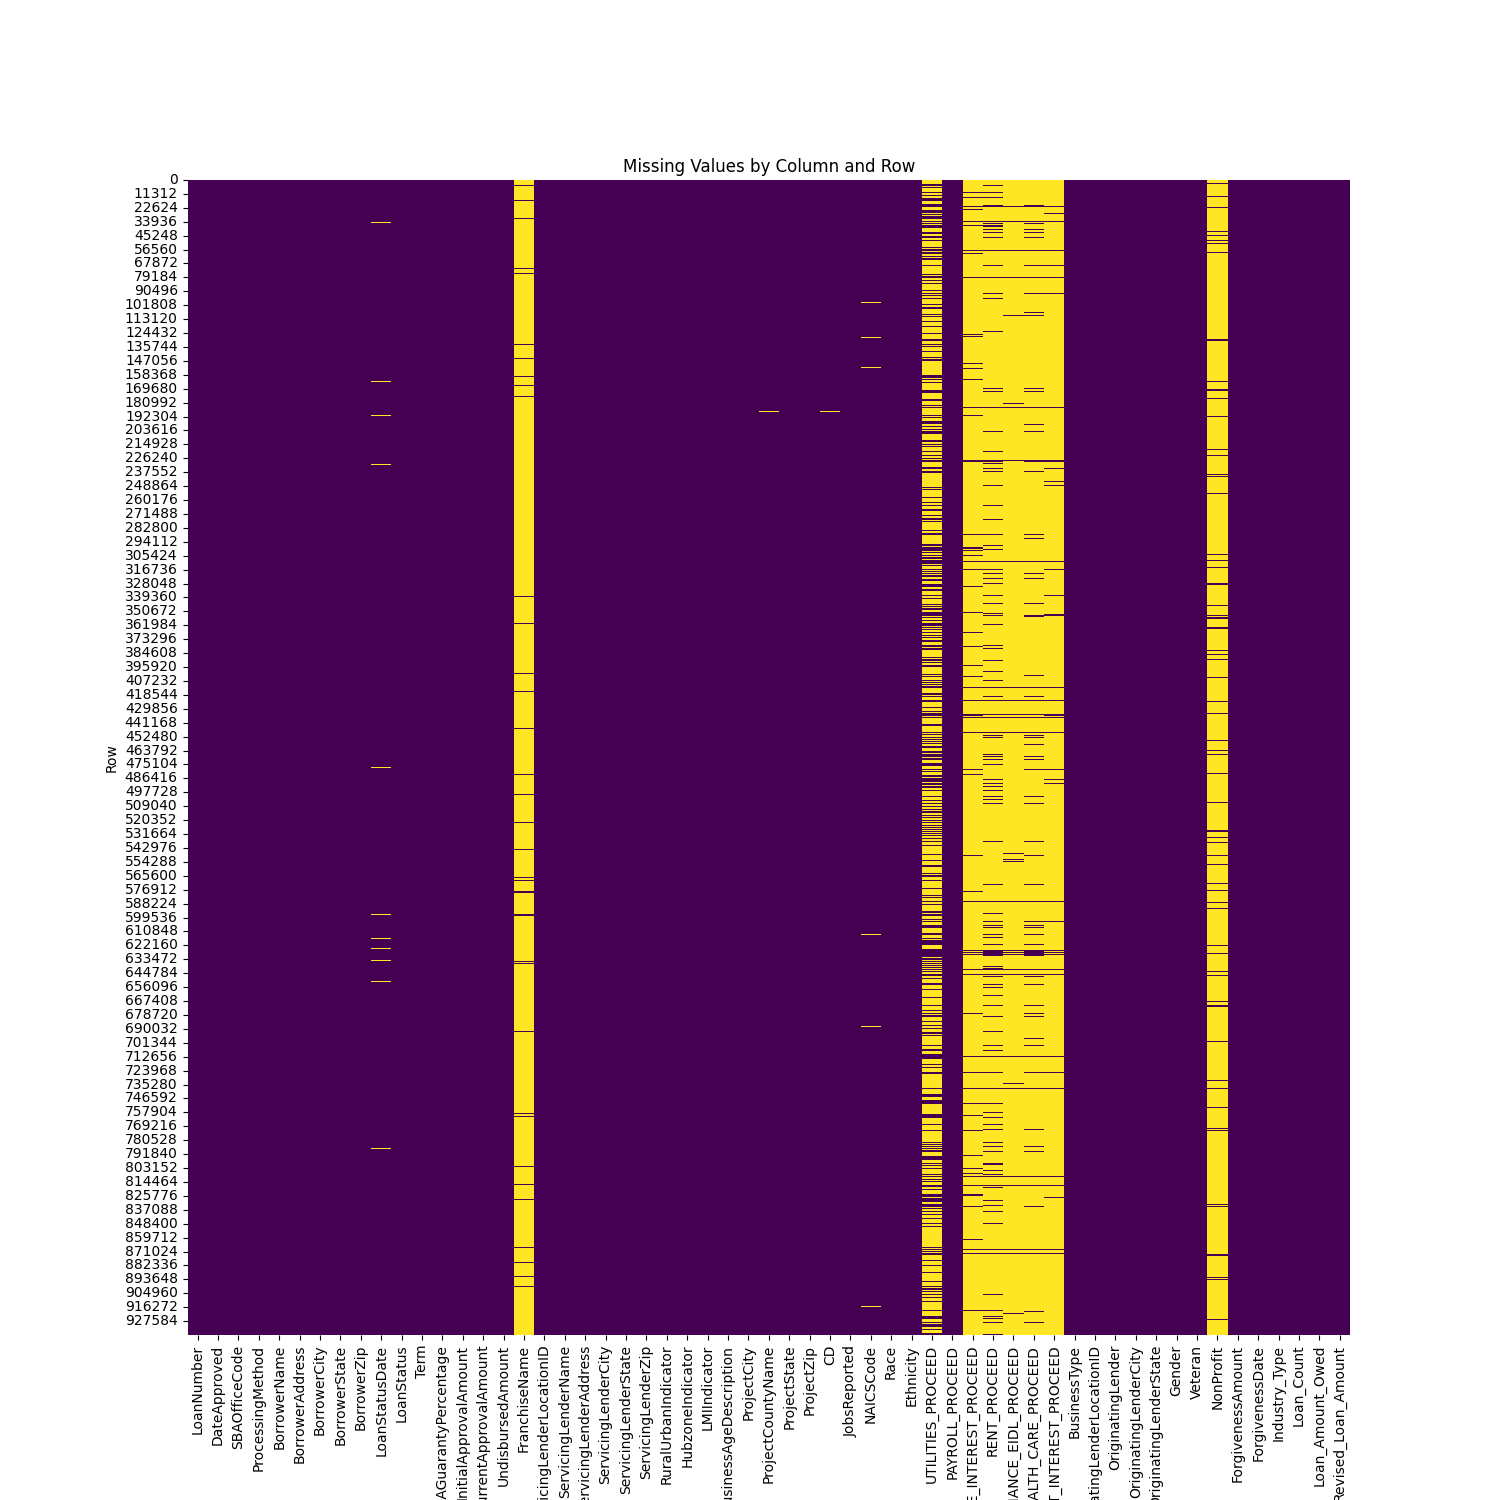
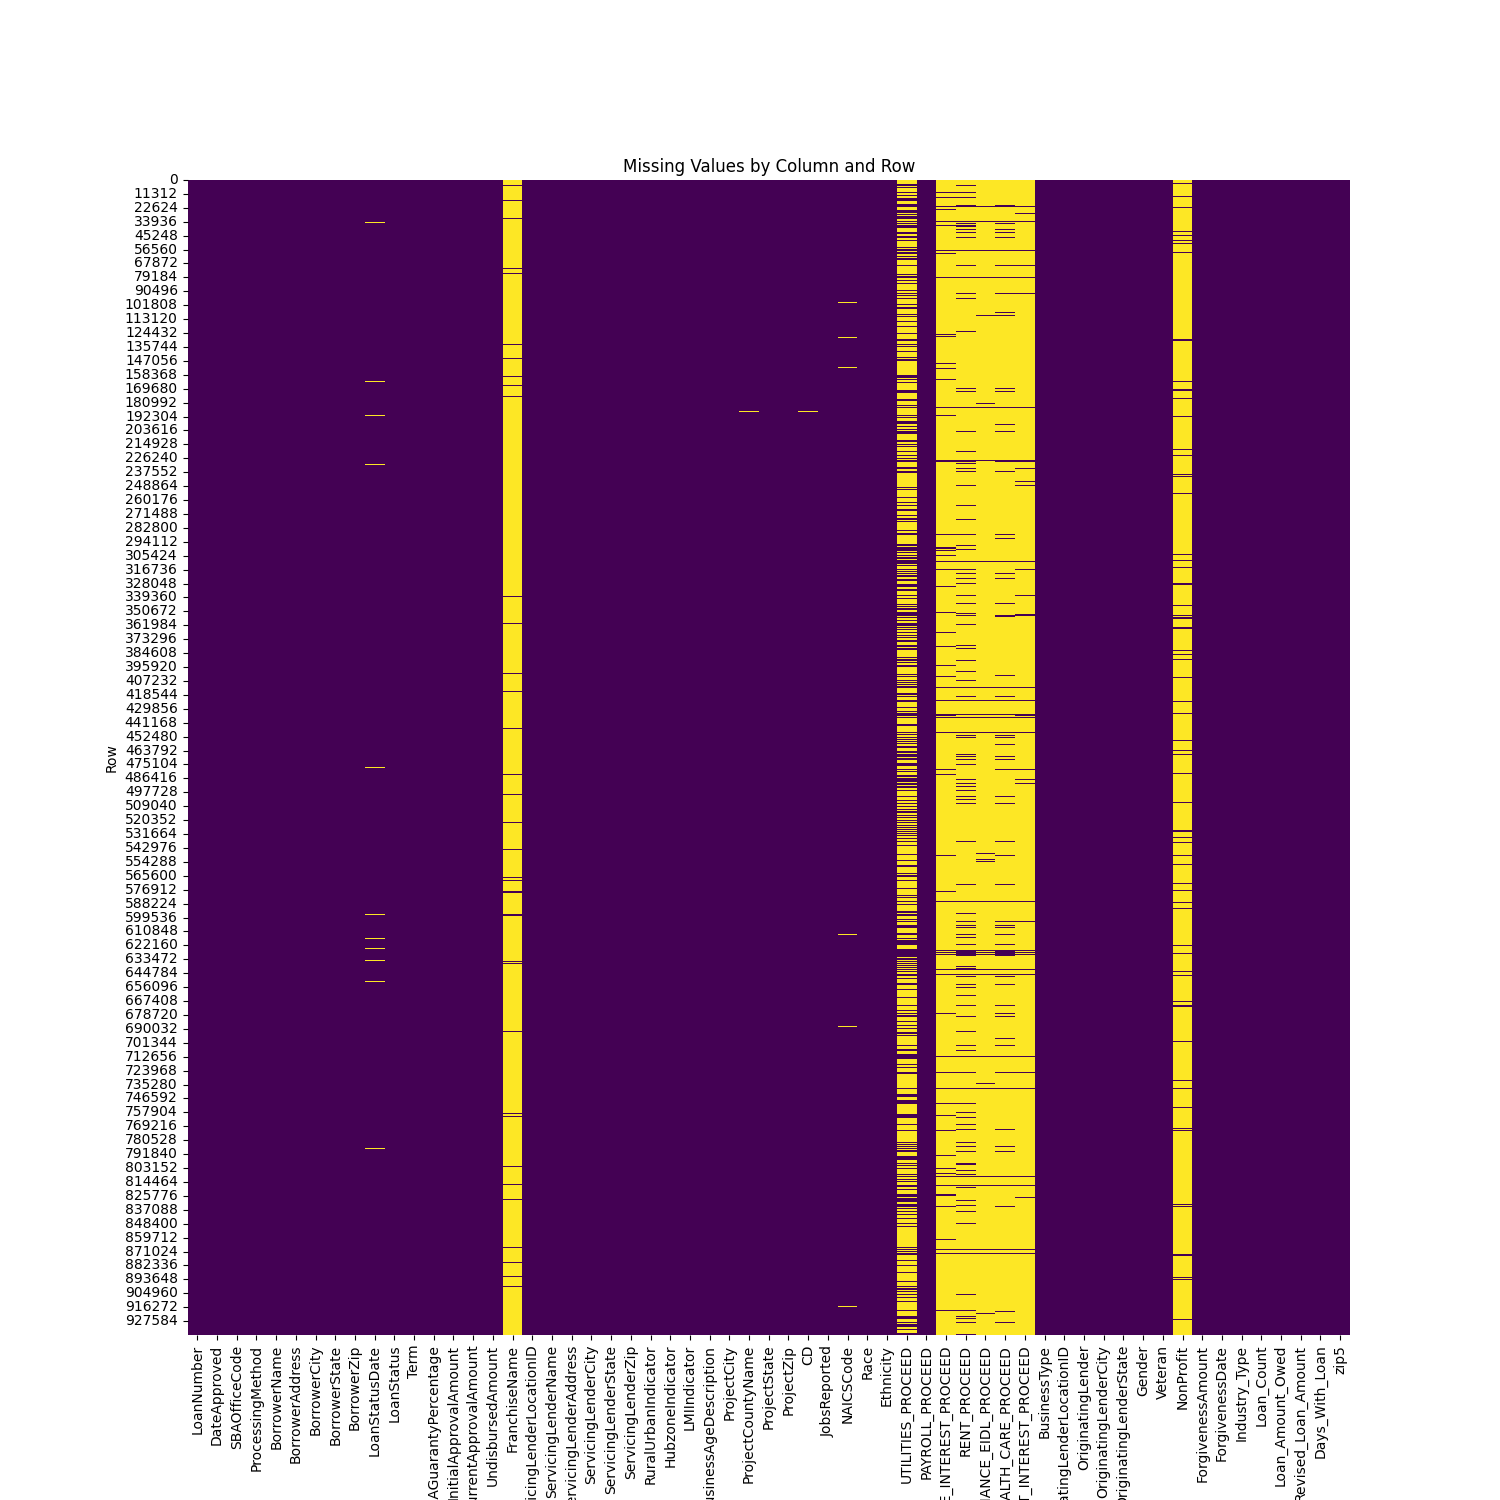
new features and eda plots addded

Changed region(s): [[0.1227, 0.1227, 0.92, 1.0]]

diff --git a/EDA/eda_outputs.py b/EDA/eda_outputs.py
@@ -11,7 +11,7 @@ import pandas as pd
 
 class EDA_Outputs:
     def eda_plots_missing_values_heatmap(self, data):
-        fig, ax = plt.subplots(figsize=(15,15)) 
+        fig, ax=plt.subplots(figsize=(15,15)) 
         sns.heatmap(data.isnull(),
                     cbar=False,
                     cmap='viridis').set(title='Missing Values by Column and Row',
@@ -30,14 +30,14 @@ class EDA_Outputs:
         mask=np.triu(np.ones(corr.shape, dtype=bool))
         df_mask = corr.mask(mask)
 
-        fig = ff.create_annotated_heatmap(z=df_mask.to_numpy(), 
-                                          x=df_mask.columns.tolist(),
-                                          y=df_mask.columns.tolist(),
-                                          annotation_text = np.around(df_mask.to_numpy(), decimals=2),
-                                          colorscale=px.colors.diverging.RdBu,
-                                          showscale=True, 
-                                          ygap=1, 
-                                          xgap=1)
+        fig=ff.create_annotated_heatmap(z=df_mask.to_numpy(), 
+                                        x=df_mask.columns.tolist(),
+                                        y=df_mask.columns.tolist(),
+                                        annotation_text = np.around(df_mask.to_numpy(), decimals=2),
+                                        colorscale=px.colors.diverging.RdBu,
+                                        showscale=True, 
+                                        ygap=1, 
+                                        xgap=1)
 
         fig.update_xaxes(side="bottom")
         fig.update_layout(title_text='Correlation Heatmap', 
@@ -91,15 +91,15 @@ class EDA_Outputs:
     
     def eda_average_loan_amount_by_industry_and_gender(self, data):
         approval_amount_industry_gender=data.groupby(['Industry_Type', 'Gender'])['CurrentApprovalAmount'].mean().reset_index()
-        fig = px.histogram(approval_amount_industry_gender, 
-                           y="Industry_Type", 
-                           x="CurrentApprovalAmount",
-                           color='Gender', 
-                           barmode='group',
-                           title="Average Loan Amount by Industry Per Gender",
-                           orientation='h',
-                           height=800,
-                           width=1200)
+        fig=px.histogram(approval_amount_industry_gender, 
+                         y="Industry_Type", 
+                         x="CurrentApprovalAmount",
+                         color='Gender', 
+                         barmode='group',
+                         title="Average Loan Amount by Industry Per Gender",
+                         orientation='h',
+                         height=800,
+                         width=1200)
 
         fig.update_traces(textfont_size=12, textangle=0, textposition="outside", cliponaxis=False)
         fig.update_layout(yaxis=dict(tickfont=dict(size=10)), 
@@ -160,5 +160,121 @@ class EDA_Outputs:
                                       x=0.90))
         
         fig.write_image("Plots_Storage/EDA_Plots/average_loan_amount_by_hubzone_indicator_by_industry.png")
+
+        return None
+    
+
+    def eda_state_loan_count(self, data):
+        state_loan_count=data.groupby(['BorrowerState'])['CurrentApprovalAmount'].\
+            count().reset_index().rename(columns={'CurrentApprovalAmount': 'Number of Loans'})
+
+        fig=px.choropleth(locations=state_loan_count['BorrowerState'], 
+                          locationmode="USA-states", 
+                          color=state_loan_count['Number of Loans'],
+                          color_continuous_scale=px.colors.sequential.Blues, 
+                          title='Number of Loans Approved per State',
+                          scope="usa")
+        
+        fig.update_layout(title_x=0.5,
+                          title=dict(font=dict(size=15)),
+                          coloraxis_colorbar=dict(title="Number of Loans"))
+        fig.update_coloraxes(colorbar_title_font_size=10)
+        
+        fig.write_image("Plots_Storage/EDA_Plots/state_loan_count.png")
+
+        return None
+
+
+    def eda_state_loan_avg_amount(self, data):
+        state_loan_avg_amount=data.groupby(['BorrowerState'])['CurrentApprovalAmount'].\
+            mean().reset_index().rename(columns={'CurrentApprovalAmount': 'Average Loan Amount'})
+
+        fig=px.choropleth(locations=state_loan_avg_amount['BorrowerState'], 
+                          locationmode="USA-states", 
+                          color=state_loan_avg_amount['Average Loan Amount'],
+                          color_continuous_scale=px.colors.sequential.Blues, 
+                          title='Average Loan Amount Approved per State',
+                          scope="usa")
+        
+        fig.update_layout(title_x=0.5,
+                          title=dict(font=dict(size=15)),
+                          coloraxis_colorbar=dict(title="Average Loan Amount"))
+        fig.update_coloraxes(colorbar_title_font_size=10)
+        
+        fig.write_image("Plots_Storage/EDA_Plots/state_loan_avg_amount.png")
+
+        return None
+
+    
+    def eda_zip_loan_count(self, data, counties):
+        zip5_loan_count=data.groupby(['zip5'])['CurrentApprovalAmount'].\
+            count().reset_index().rename(columns={'CurrentApprovalAmount': 'loan_amount_count'})
+
+        fig=px.choropleth(zip5_loan_count, 
+                          geojson=counties, 
+                          locations='zip5', 
+                          color='loan_amount_count',
+                          color_continuous_scale="Viridis",
+                          title='Number of Loans Approved per FIPS Code',
+                          scope="usa")
+        
+        fig.update_layout(title_x=0.5,
+                          title=dict(font=dict(size=15)),
+                          coloraxis_colorbar=dict(title="Number of Loans"))
+        fig.update_coloraxes(colorbar_title_font_size=10)
+
+        fig.write_image("Plots_Storage/EDA_Plots/fips_code_loan_count.png")
+
+        return None
+
+
+    def eda_zip_loan_avg(self, data, counties):
+        zip5_loan_mean=data.groupby(['zip5'])['CurrentApprovalAmount'].\
+            mean().reset_index().rename(columns={'CurrentApprovalAmount': 'loan_amount_mean'})
+
+        fig=px.choropleth(zip5_loan_mean, 
+                          geojson=counties, 
+                          locations='zip5', 
+                          color='loan_amount_mean',
+                          color_continuous_scale="Viridis",
+                          title='Average Loan Amount Approved per FIPS Code',
+                          scope="usa")
+        
+        fig.update_layout(title_x=0.5,
+                          title=dict(font=dict(size=15)),
+                          coloraxis_colorbar=dict(title="Average Loan Amount"))
+        fig.update_coloraxes(colorbar_title_font_size=10)
+
+        fig.write_image("Plots_Storage/EDA_Plots/fips_code_loan_avg_amount.png")
+        
+        return None
+    
+
+    def eda_time_series_gender_loan_amount(self, data):
+        fig=px.scatter(data, 
+                       x="DateApproved", 
+                       y="CurrentApprovalAmount", 
+                       title='Loan Amount Approval By Gender Over Time',
+                       color='Gender')
+
+        fig.update_layout(title_x=0.5)
+
+        fig.write_image("Plots_Storage/EDA_Plots/loan_amount_gender_over_time.png")
+
+        return None
+    
+
+    def eda_time_series_loan_amount(self, data):
+        fig=px.scatter(data, 
+                       x="DateApproved", 
+                       y="CurrentApprovalAmount", 
+                       title='Loan Amount Approval Over Time',
+                       color='CurrentApprovalAmount',
+                       color_continuous_scale="RdBu",)
+
+        fig.update_layout(title_x=0.5,
+                          coloraxis_colorbar=dict(title="Loan Amount"))
+
+        fig.write_image("Plots_Storage/EDA_Plots/loan_amount_over_time.png")
 
         return None

diff --git a/Read_Data/read_data_files.py b/Read_Data/read_data_files.py
@@ -1,0 +1,71 @@
+import pandas as pd
+import json
+
+class Read_Data:
+    def loan_data_to_pandas_df(self, loan_input_data_location):
+        data_schema={'LoanNumber': str, 
+                     'DateApproved': str, 
+                     'SBAOfficeCode': str, 
+                     'ProcessingMethod': str,
+                     'BorrowerName': str, 
+                     'BorrowerAddress': str, 
+                     'BorrowerCity': str, 
+                     'BorrowerState': str,
+                     'BorrowerZip': str, 
+                     'LoanStatusDate': str, 
+                     'LoanStatus': str, 
+                     'Term': int,
+                     'SBAGuarantyPercentage': float, 
+                     'InitialApprovalAmount': float,
+                     'CurrentApprovalAmount': float, 
+                     'UndisbursedAmount': float, 
+                     'FranchiseName': str,
+                     'ServicingLenderLocationID': str, 
+                     'ServicingLenderName': str,
+                     'ServicingLenderAddress': str, 
+                     'ServicingLenderCity': str, 
+                     'ServicingLenderState': str,
+                     'ServicingLenderZip': str, 
+                     'RuralUrbanIndicator': str, 
+                     'HubzoneIndicator': str,
+                     'LMIIndicator': str, 
+                     'BusinessAgeDescription': str, 
+                     'ProjectCity': str,
+                     'ProjectCountyName': str, 
+                     'ProjectState': str, 
+                     'ProjectZip': str, 
+                     'CD': str, 
+                     'JobsReported': float,
+                     'NAICSCode': str, 
+                     'Race': str, 
+                     'Ethnicity': str, 
+                     'UTILITIES_PROCEED': float,
+                     'PAYROLL_PROCEED': float, 
+                     'MORTGAGE_INTEREST_PROCEED': float, 
+                     'RENT_PROCEED': float,
+                     'REFINANCE_EIDL_PROCEED': float, 
+                     'HEALTH_CARE_PROCEED': float,
+                     'DEBT_INTEREST_PROCEED': float, 
+                     'BusinessType': str, 
+                     'OriginatingLenderLocationID': str,
+                     'OriginatingLender': str, 
+                     'OriginatingLenderCity': str, 
+                     'OriginatingLenderState': str,
+                     'Gender': str, 
+                     'Veteran': str, 
+                     'NonProfit': str, 
+                     'ForgivenessAmount': float,
+                     'ForgivenessDate': str}
+        
+        parse_dates = ['DateApproved', 'LoanStatusDate', 'ForgivenessDate']
+        original_data_df=pd.read_csv(loan_input_data_location, dtype=data_schema, parse_dates=parse_dates)
+
+        return original_data_df
+    
+
+
+    def read_in_geojson_data(self, geojson_input_data_location):
+        with open(f'{geojson_input_data_location}') as f:
+            counties=json.load(f)
+
+        return counties

diff --git a/main.py b/main.py
@@ -1,6 +1,6 @@
 # Libraries and Modules
-from Input_Values.input_vars import input_data_location
-from Read_Data.read_data_df import Read_Data_DF
+from Input_Values.input_vars import loan_input_data_location, geojson_input_data_location
+from Read_Data.read_data_files import Read_Data
 from Data_Cleaning.clean_data import Clean_Data
 from Feature_Engineering.create_features import Create_Features
 from EDA.eda_outputs import EDA_Outputs
@@ -8,7 +8,7 @@ from EDA.eda_outputs import EDA_Outputs
 
 # Calling Modules
 print('Importing Modules\n')
-read_data_df=Read_Data_DF()
+read_data=Read_Data()
 clean_data=Clean_Data()
 create_features=Create_Features()
 eda_outputs=EDA_Outputs()
@@ -16,15 +16,16 @@ eda_outputs=EDA_Outputs()
 
 # Read in Data
 print('Reading In Data\n')
-original_data_df=read_data_df.data_to_pandas_df(input_data_location=input_data_location)
-original_data_df.head()
+original_data_df=read_data.loan_data_to_pandas_df(loan_input_data_location=loan_input_data_location)
+geojson_data=read_data.read_in_geojson_data(geojson_input_data_location=geojson_input_data_location)
 
 
 # Removing Certain Rows Based on Columns
 print('Removing Null Values\n')
 print(f'The original dataframe has the following shape: {original_data_df.shape}')
 remove_nulls_df=clean_data.remove_nulls_based_on_columns(data=original_data_df)
-print(f'After removing Null values the new dataframe has the following shape: {remove_nulls_df.shape}')
+remove_territories_df=clean_data.remove_usa_territories(data=remove_nulls_df)
+print(f'After removing Null values the new dataframe has the following shape: {remove_territories_df.shape}')
 
 
 # Feature Engineering: Industry Mapping
@@ -33,6 +34,8 @@ clean_data_df=create_features.mapping_industries(data=remove_nulls_df) # Industr
 clean_data_df=create_features.number_of_loans(data=clean_data_df) # Number of Loans
 clean_data_df=create_features.amount_of_loan_forgiven(data=clean_data_df) # Amount of Loan Forgiven
 clean_data_df=create_features.revised_loan_amount(data=clean_data_df) # Revised Loan Approval
+clean_data_df=create_features.days_with_loan_approval(data=clean_data_df) # Days With Loan
+clean_data_df=create_features.create_zip5(data=clean_data_df) # Zip5 Feature
 
 
 # EDA (All EDA Images are Output in the folder --> Plots_Storage/EDA_Plots)
@@ -44,6 +47,12 @@ eda_outputs.eda_spread_by_gender(data=clean_data_df)
 eda_outputs.eda_average_loan_amount_by_industry_and_gender(data=clean_data_df)
 eda_outputs.eda_average_loan_amount_by_lmi_indicator_by_industry(data=clean_data_df)
 eda_outputs.eda_average_loan_amount_by_hubzone_indicator_by_industry(data=clean_data_df)
+eda_outputs.eda_state_loan_count(data=clean_data_df)
+eda_outputs.eda_state_loan_avg_amount(data=clean_data_df)
+eda_outputs.eda_zip_loan_count(data=clean_data_df, counties=geojson_data)
+eda_outputs.eda_zip_loan_avg(data=clean_data_df, counties=geojson_data)
+eda_outputs.eda_time_series_gender_loan_amount(data=clean_data_df)
+eda_outputs.eda_time_series_loan_amount(data=clean_data_df)
 
 
 # Subsetting Features

diff --git a/Feature_Engineering/create_features.py b/Feature_Engineering/create_features.py
@@ -34,6 +34,7 @@ class Create_Features:
 
         return data
     
+
     def number_of_loans(self, data):
         loan_count_feature=data.groupby('BorrowerName').count()['LoanNumber'].reset_index().rename(columns={'LoanNumber':'Loan_Count'})
         data=data.merge(loan_count_feature, 
@@ -43,12 +44,26 @@ class Create_Features:
         
         return data
 
+
     def amount_of_loan_forgiven(self, data):
         data['Loan_Amount_Owed']=data['ForgivenessAmount']-data['CurrentApprovalAmount']
 
         return data
     
+
     def revised_loan_amount(self, data):
         data['Revised_Loan_Amount']=data['CurrentApprovalAmount']-data['InitialApprovalAmount']
+
+        return data
+    
+
+    def days_with_loan_approval(self, data):
+        data['Days_With_Loan']=(data['ForgivenessDate']-data['DateApproved']).dt.days
+
+        return data
+    
+    
+    def create_zip5(self, data):
+        data['zip5']=data['BorrowerZip'].str[0:5]
 
         return data

diff --git a/Data_Cleaning/clean_data.py b/Data_Cleaning/clean_data.py
@@ -12,3 +12,9 @@ class Clean_Data:
         data=data.reset_index(drop=True)
         
         return data
+    
+    def remove_usa_territories(self, data):
+        us_territories=['AS', 'GU', 'MP', 'PR', 'VI']
+        data=data[~data['BorrowerState'].isin(us_territories)]
+
+        return data

diff --git a/Input_Values/input_vars.py b/Input_Values/input_vars.py
@@ -4,4 +4,5 @@ import numpy as np
 with open('Input_Values/inputs.yaml', 'r') as file:
     input_vars=yaml.safe_load(file)
 
-input_data_location=input_vars['Data_Location']
+loan_input_data_location=input_vars['Loan_Data_Location']
+geojson_input_data_location=input_vars['GeoJSON_Data_Location']
